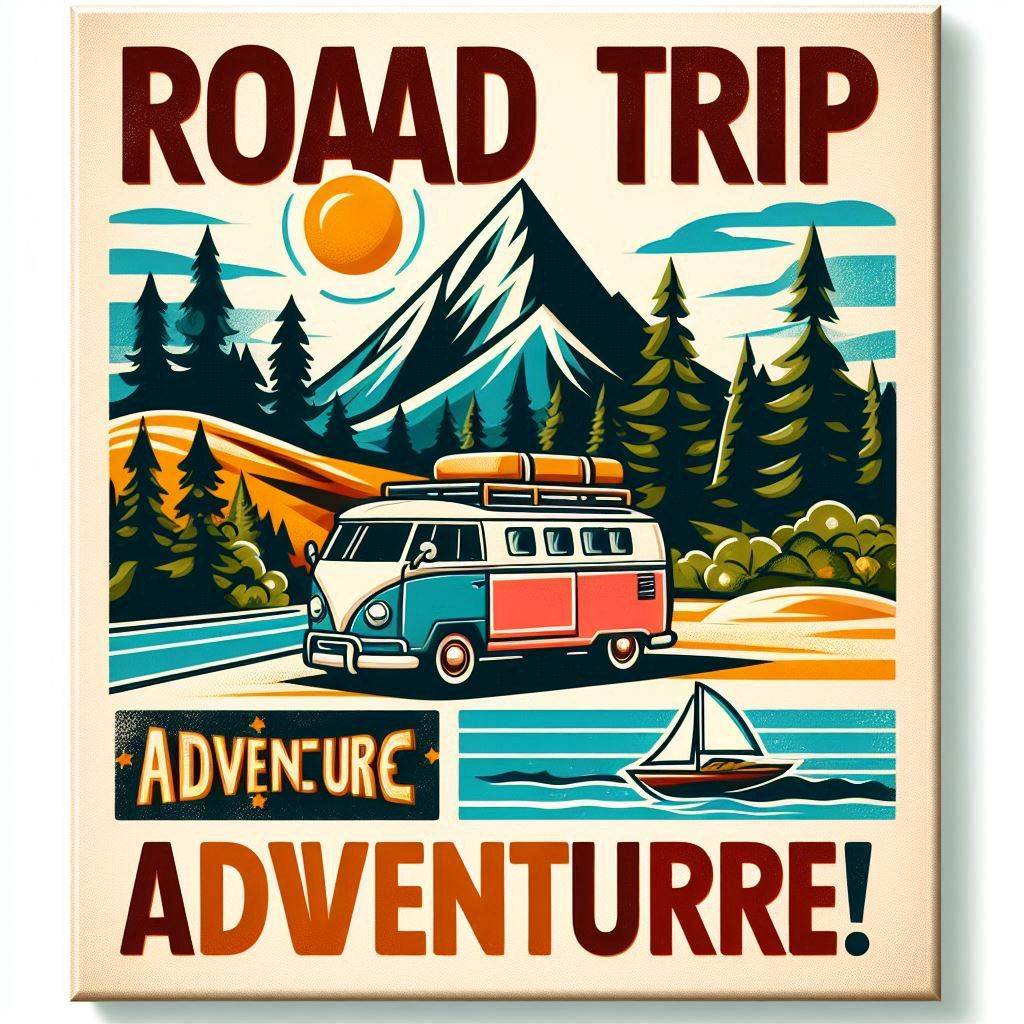
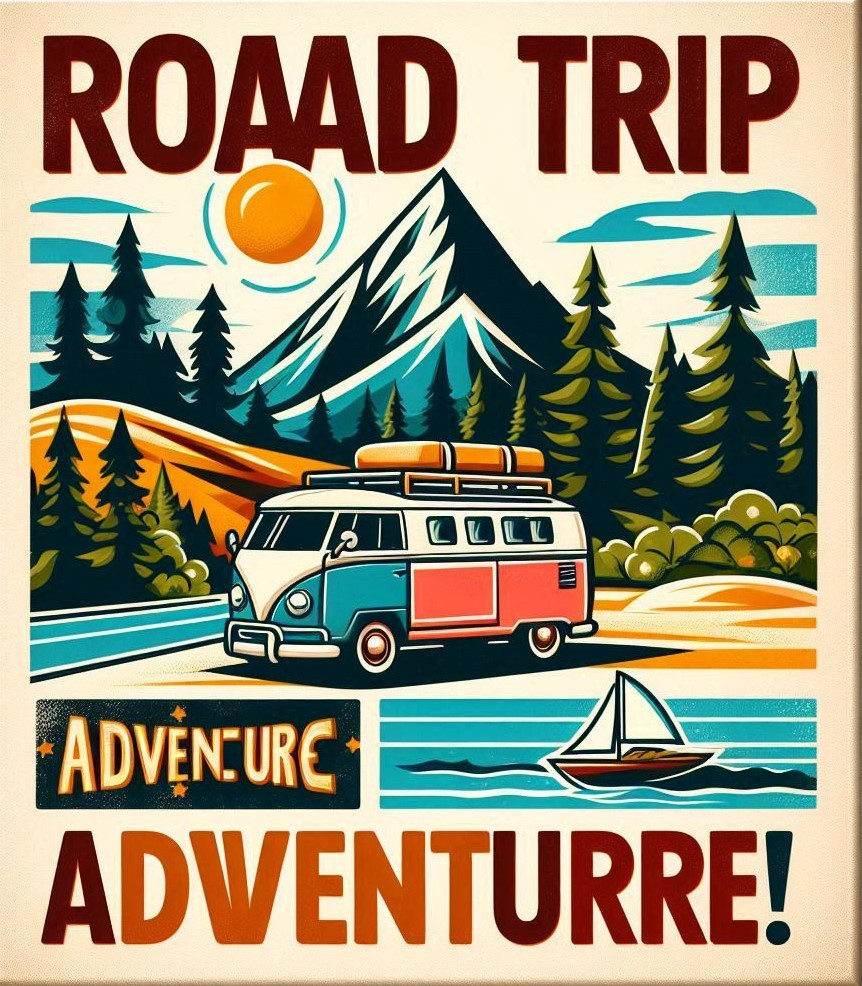
hover animation

diff --git a/src/components/FirstCarousel.css b/src/components/FirstCarousel.css
@@ -10,12 +10,20 @@
   height: 300px;
   position: relative;
 }
+.secondImage:hover {
+  bottom: 5px;
+}
+.firstImage:hover {
+  bottom: 5px;
+}
+.thirdImage:hover {
+  bottom: 5px;
+}
 .thirdImage {
   width: 300px;
   height: 300px;
   position: relative;
   opacity: 0.5;
-
   rotate: -5deg;
 }
 #next {
@@ -27,6 +35,9 @@
 }
 #next:hover {
   cursor: pointer;
+  width: 60px;
+  height: 60px;
+  top: 120px;
 }
 #previous {
   width: 50px;
@@ -38,6 +49,9 @@
 }
 #previous:hover {
   cursor: pointer;
+  width: 60px;
+  height: 60px;
+  top: 120px;
 }
 #carousel {
   display: flex;
